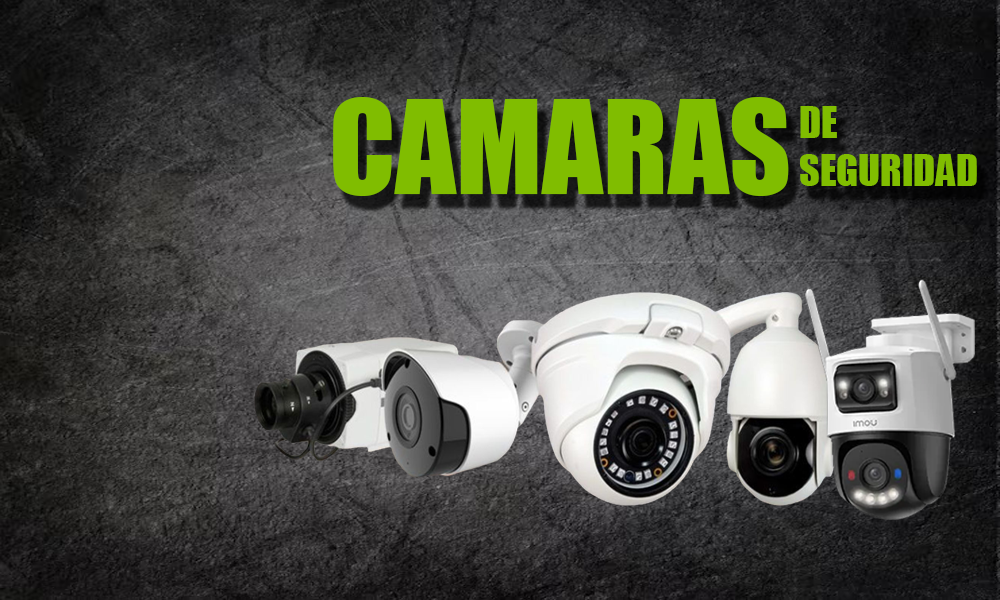
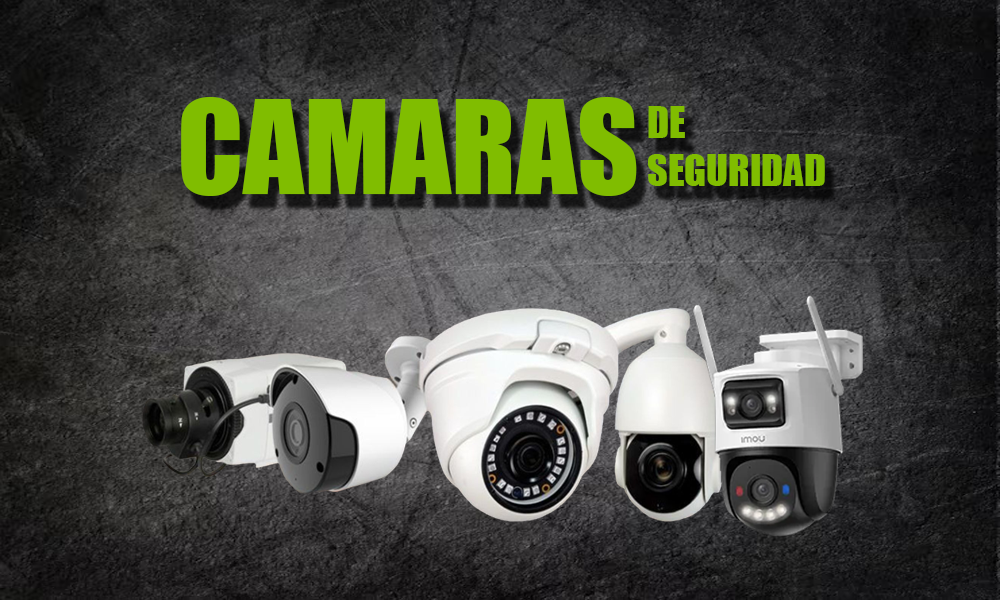
modificacion de la imagen de portada responsiva para celulares

Changed region(s): [[0.124, 0.45, 0.992, 0.9], [0.155, 0.15, 0.992, 0.36]]

diff --git a/index.php b/index.php
@@ -53,6 +53,14 @@ require_once('cnx/cnx_conexion.php');
         linear-gradient(90deg, rgba(30, 41, 3, .92) 0%, rgba(30, 41, 3, .75) 45%, rgba(30, 41, 3, .35) 100%);
     }
 
+    /* En móvil el texto va centrado: overlay vertical para mantener el contraste */
+    @media (max-width: 640px) {
+      .hero-overlay {
+        background:
+          linear-gradient(180deg, rgba(30, 41, 3, .70) 0%, rgba(30, 41, 3, .88) 55%, rgba(30, 41, 3, .75) 100%);
+      }
+    }
+
     .brand-glow {
       box-shadow: 0 10px 40px -10px rgba(159, 201, 8, .55);
     }
@@ -106,38 +114,42 @@ require_once('cnx/cnx_conexion.php');
 
   <!-- ===================== HERO / PORTADA ===================== -->
   <section id="inicio" class="relative min-h-screen flex items-center pt-16">
-    <!-- Imagen de portada -->
-    <img src="Iconos/portada_para_letrero_modificado_web.png" alt="MIVAVISION camaras de seguridad"
-      class="absolute inset-0 h-full w-full object-cover">
+    <!-- Imagen de portada: versión móvil (<= 640px) y versión escritorio -->
+    <picture class="absolute inset-0">
+      <source media="(max-width: 640px)" srcset="Iconos/portada_para_fondo_movil.png">
+      <img src="Iconos/portada_para_letrero_modificado_web.png" alt="MIVAVISION camaras de seguridad"
+        class="h-full w-full object-cover object-[50%_35%] sm:object-center"
+        fetchpriority="high" decoding="async">
+    </picture>
     <div class="absolute inset-0 hero-overlay"></div>
 
-    <div class="relative max-w-7xl mx-auto px-4 sm:px-6 lg:px-8 py-20 w-full">
-      <div class="max-w-2xl">
+    <div class="relative max-w-7xl mx-auto px-4 sm:px-6 lg:px-8 py-14 sm:py-20 w-full text-center sm:text-left">
+      <div class="max-w-2xl mx-auto sm:mx-0">
         <span class="inline-flex items-center gap-2 rounded-full bg-brand-400/15 border border-brand-400/40 px-4 py-1.5 text-xs font-semibold uppercase tracking-widest text-brand-300">
           <span class="h-2 w-2 rounded-full bg-brand-400 animate-pulse"></span>
           Videovigilancia profesional
         </span>
 
-        <h1 class="mt-6 text-4xl sm:text-5xl lg:text-6xl font-extrabold leading-tight text-white">
+        <h1 class="mt-4 sm:mt-6 text-3xl sm:text-5xl lg:text-6xl font-extrabold leading-tight text-white">
           Protege lo que mas te importa con
           <span class="text-brand-400">camaras de seguridad</span>
         </h1>
 
-        <p class="mt-6 text-lg text-slate-200 max-w-xl">
+        <p class="mt-4 sm:mt-6 text-base sm:text-lg text-slate-200 max-w-md sm:max-w-xl mx-auto sm:mx-0">
           Equipos Dahua, IMOU y TP-Link Tapo para tu hogar, negocio u oficina.
           Instalacion, configuracion y asesoria incluida de principio a fin.
         </p>
 
-        <div class="mt-8 flex flex-wrap gap-4">
+        <div class="mt-6 sm:mt-8 flex flex-col sm:flex-row flex-wrap justify-center sm:justify-start gap-3 sm:gap-4">
           <a href="#productos"
-            class="inline-flex items-center gap-2 rounded-xl bg-brand-400 px-6 py-3.5 text-base font-semibold text-brand-950 hover:bg-brand-300 transition brand-glow">
+            class="inline-flex items-center justify-center gap-2 rounded-xl bg-brand-400 px-6 py-3.5 text-base font-semibold text-brand-950 hover:bg-brand-300 transition brand-glow">
             Ver productos
             <svg class="h-5 w-5" fill="none" stroke="currentColor" stroke-width="2" viewBox="0 0 24 24">
               <path stroke-linecap="round" stroke-linejoin="round" d="M17 8l4 4m0 0l-4 4m4-4H3" />
             </svg>
           </a>
           <a href="#contacto"
-            class="inline-flex items-center gap-2 rounded-xl border border-white/30 bg-white/5 px-6 py-3.5 text-base font-semibold text-white hover:bg-white/15 transition">
+            class="inline-flex items-center justify-center gap-2 rounded-xl border border-white/30 bg-white/5 px-6 py-3.5 text-base font-semibold text-white hover:bg-white/15 transition">
             Solicitar cotizacion
           </a>
         </div>

diff --git a/Sesion/Acceso.php b/Sesion/Acceso.php
@@ -88,7 +88,7 @@ if ($var_usr == $usr && password_verify($pswr, $var_pswr)) {
 ?>
 	<script language=javascript>
 		alert("EL USUARIO O LA CLAVE SON INCORRECTOS, POR FAVOR INTENTELO DE NUEVO")
-		self.location = "../index.html"
+		self.location = "../"
 	</script>';
 <?PHP
 }
